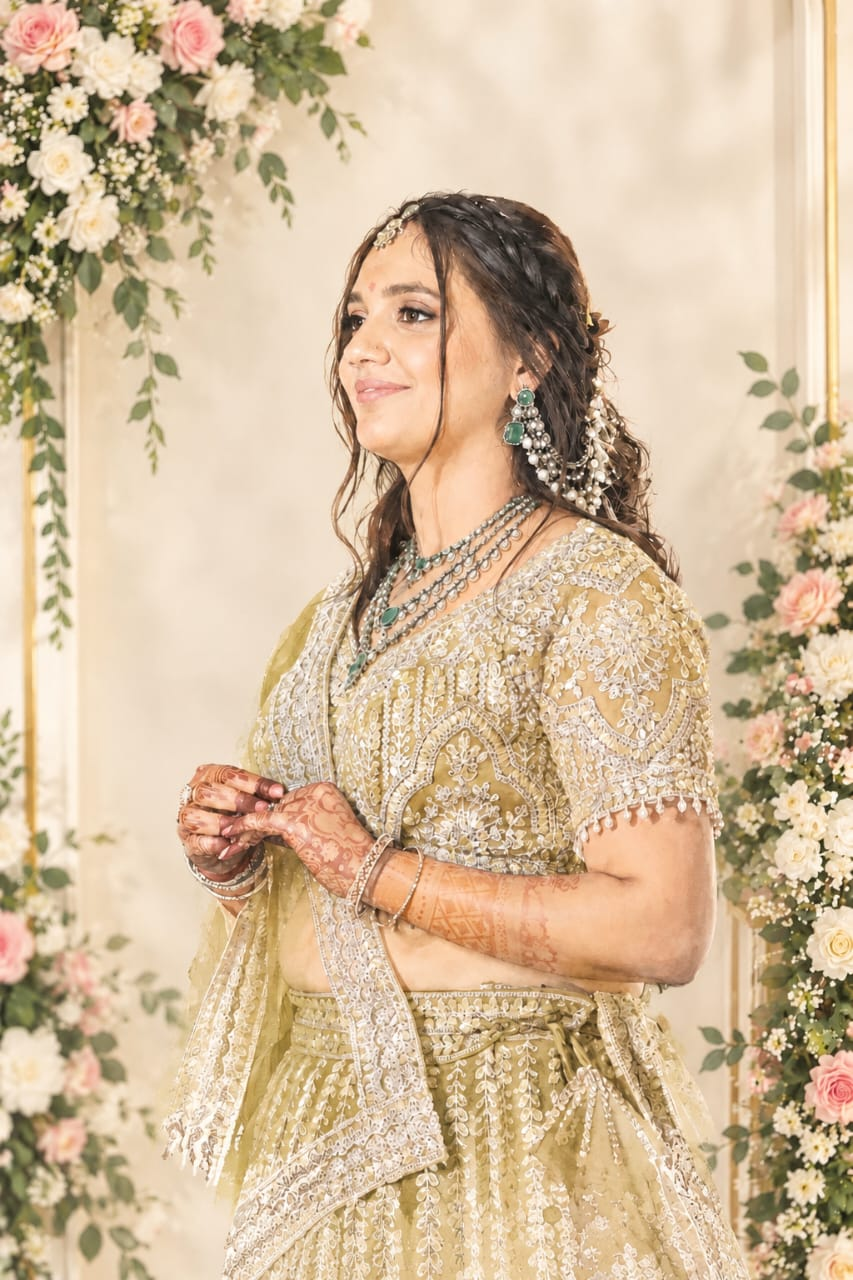
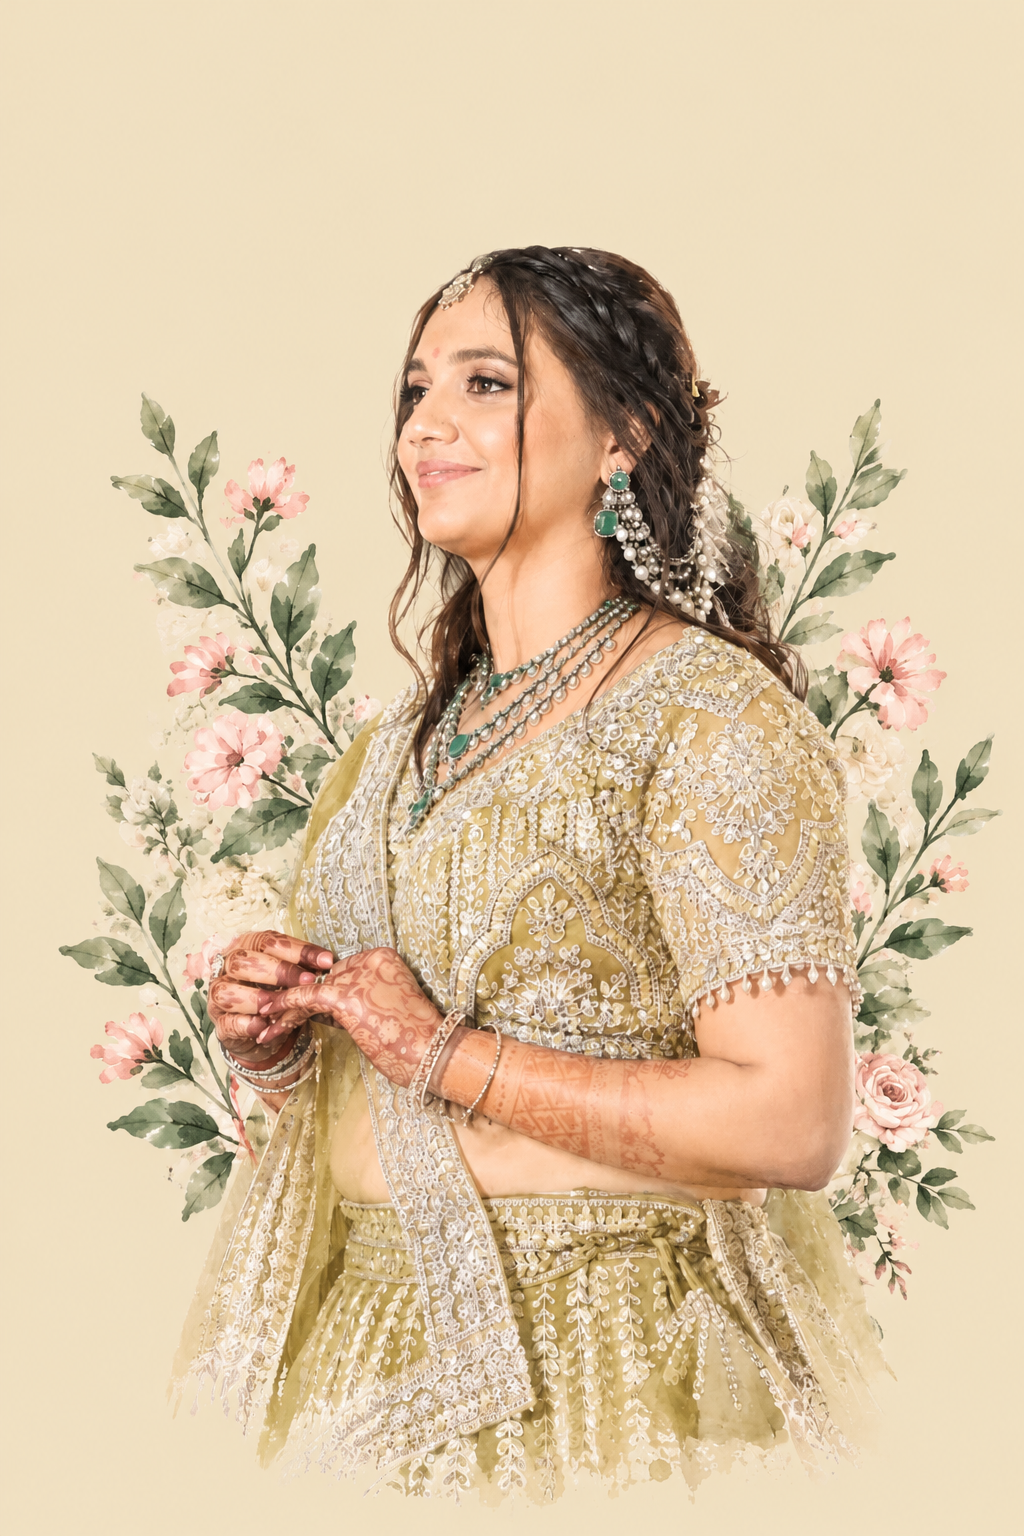
Update wedding invitation website

diff --git a/src/Couple.css b/src/Couple.css
@@ -17,6 +17,7 @@
   width: min(100%, 1100px);
   margin: 0 auto;
   position: relative;
+  isolation: isolate;
   box-sizing: border-box;
   padding: 75px 55px 65px;
 
@@ -187,27 +188,45 @@
 ========================================================= */
 
 .person-frame {
-  width: 100%;
-
+  width: min(100%, 360px);
+  aspect-ratio: 0.76;
+  margin: 0 auto;
   box-sizing: border-box;
-
   position: relative;
-
   overflow: hidden;
+  background: #f5e8cd;
+  border: 1px solid rgba(165, 129, 83, 0.72);
+  border-radius: 50% 50% 4px 4px;
+  box-shadow: 0 8px 22px rgba(80, 50, 20, 0.1);
 }
 
-.person-frame::after {
-  content: none;
+.person-frame::before {
+  content: "";
+  position: absolute;
+  inset: 6px 6px 0;
+  z-index: 1;
+  border: 1px solid rgba(255, 248, 237, 0.85);
+  border-bottom: 0;
+  border-radius: 50% 50% 0 0;
+  pointer-events: none;
 }
 
 .person-frame img {
   display: block;
-
   width: 100%;
-  height: 470px;
+  height: 100%;
 
   object-fit: cover;
-  object-position: center;
+  object-position: center center;
+  mix-blend-mode: darken;
+  -webkit-mask-image:
+    linear-gradient(to right, transparent, #000 7%, #000 93%, transparent),
+    linear-gradient(to bottom, transparent, #000 7%, #000 93%, transparent);
+  -webkit-mask-composite: source-in;
+  mask-image:
+    linear-gradient(to right, transparent, #000 7%, #000 93%, transparent),
+    linear-gradient(to bottom, transparent, #000 7%, #000 93%, transparent);
+  mask-composite: intersect;
 }
 
 
@@ -430,10 +449,6 @@
     margin-top: 50px;
   }
 
-  .person-frame img {
-    height: 390px;
-  }
-
   .person h3 {
     font-size: 36px;
   }
@@ -547,13 +562,7 @@
   ------------------------------------------------------- */
 
   .person-frame img {
-    width: 100%;
-
-    height: 230px;
-
-    object-fit: cover;
-
-    object-position: center;
+    object-position: center center;
   }
 
 
@@ -755,15 +764,9 @@
     transform: translateX(4px);
   }
 
-
   /* -------------------------------------------------------
      PHOTOS
   ------------------------------------------------------- */
-
-  .person-frame img {
-    height: 205px;
-  }
-
 
   /* -------------------------------------------------------
      HEART
@@ -873,15 +876,9 @@
     transform: translateX(3px);
   }
 
-
   /* -------------------------------------------------------
      PHOTOS
   ------------------------------------------------------- */
-
-  .person-frame img {
-    height: 180px;
-  }
-
 
   /* -------------------------------------------------------
      HEART

diff --git a/src/Opening.css b/src/Opening.css
@@ -10,6 +10,7 @@
   position: relative;
   display: flex;
   align-items: center;
+  align-items: safe center;
   justify-content: center;
   padding: 30px 20px;
   overflow: hidden;
@@ -182,7 +183,7 @@
 
   font-size: clamp(44px, 7vw, 76px);
   font-weight: 400;
-  font-style: italic;
+  font-style: normal;
   line-height: 0.98;
   letter-spacing: -1px;
 
@@ -205,7 +206,7 @@
   font-family: Georgia, "Times New Roman", serif;
   font-size: 0.82em;
   font-weight: 400;
-  font-style: italic;
+  font-style: normal;
 }
 
 /* =========================================================
@@ -721,10 +722,6 @@
 ========================================================= */
 
 @media (max-height: 700px) and (max-width: 600px) {
-  .opening {
-    align-items: flex-start;
-  }
-
   .opening-content {
     padding-top: 8px;
     padding-bottom: 8px;

diff --git a/src/Invitation.jsx b/src/Invitation.jsx
@@ -15,7 +15,7 @@ export default function Invitation() {
       <div className="invitation-content">
 
         <p className="ganesha-quote">
-          With blessings of Ganesha
+          With the blessings of Lord Ganesha
         </p>
 
         <p className="invitation-welcome">
